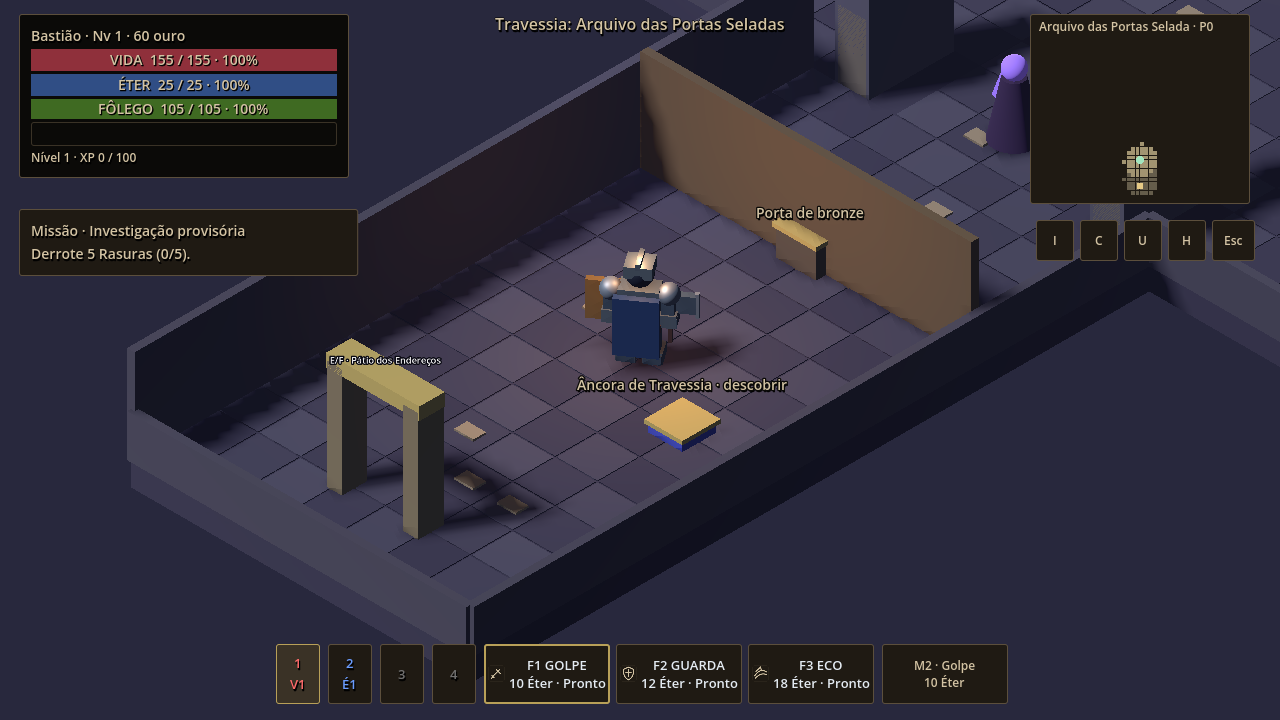
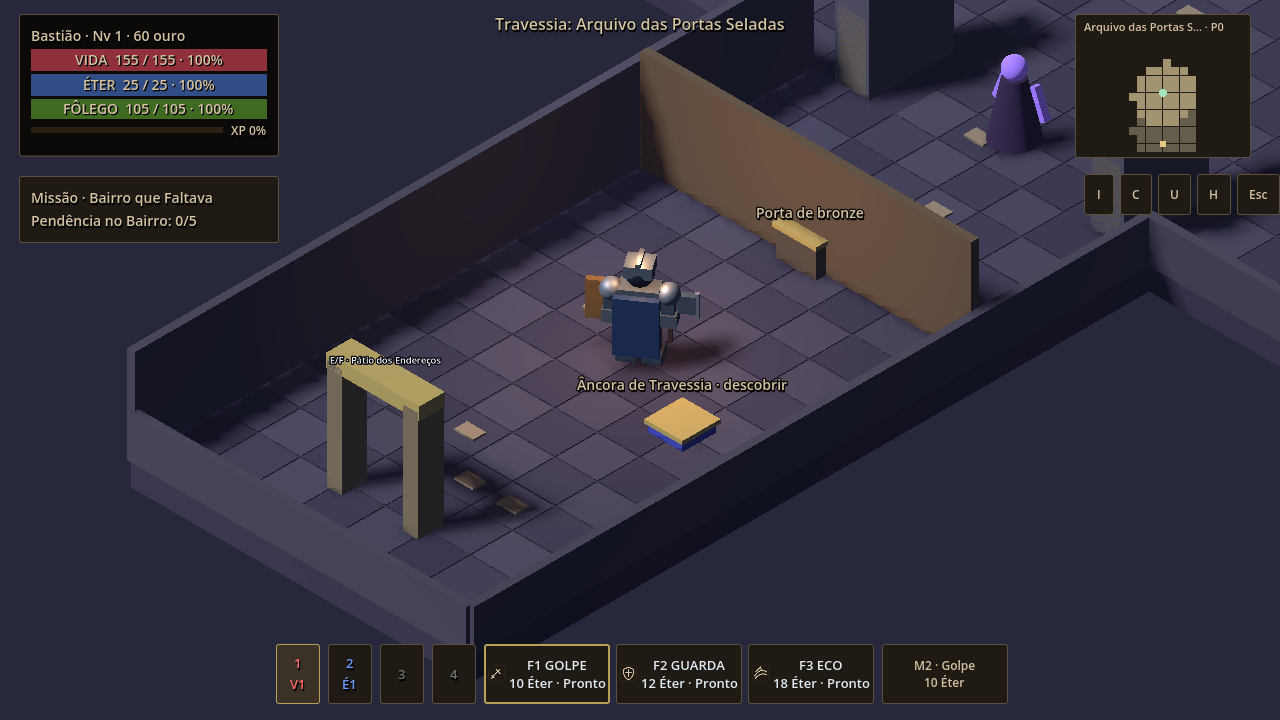
fix: refine compact HUD XP tracker minimap and stair readability

Changed region(s): [[0.0, 0.0, 0.2812, 0.3972], [0.7812, 0.0, 1.0, 0.3667]]

diff --git a/docs/FASE27_VALIDATION.md b/docs/FASE27_VALIDATION.md
@@ -1,0 +1,33 @@
+# Fase 27 — resultados e pendências
+
+21/10/2026. Base Fase26 / 431cdb6; Godot 4.7.2.stable.official.ed1daf0bf, Windows x64 Compatibility. PR Draft, sem merge.
+
+## Executado
+
+- Validador do grafo: zero erros; IDs/cenas, entradas, retornos e caminhos críticos conferidos.
+- 21 suítes completas aprovadas, incluindo inventário/arraste, NPCs/comércio, combate, HUD, persistência, consolidação e bot10/10. Resultados em relatorios-fase20/results.json e logs *-final.log no ZIP.
+- Fase27: 138 verificações finais, incluindo ataques/custos/dano na transição, retorno seguro, buffer dos encontros, rampa/altura/raycast, navegação/porta, fog por piso, posições inválidas, migração, recompensas e XP parcial. O número pode variar com pares de rótulos visíveis; todas as falhas são explícitas.
+- GUI headless:157 verificações; renderizador real:169 verificações, inputs nativos, circuito completo e12 capturas reais (quatro regiões nas duas resoluções, mapa expandido, retorno a Doma e XP parcial nas duas resoluções). Inspeção visual realizada. Fixtures neutralizam movimento/colisão de combate dos inimigos; preservam piso e gravidade. Combate é testado separadamente.
+- EXE Windows exportado:32 verificações aprovadas de menu, movimento, combate, comércio, save/loot/objetos, âncoras e conexões canônicas.
+- XP50% validada no preenchimento fino e em ganho real de progressão; painel de status/missão≈260px; minimapa compacto centrado no jogador; rastreador de pendência no Bairro não usa mortes do Arquivo para completar missão.
+
+## Perfil local final
+
+1920×1080, AMD Radeon RX5802048SP, OpenGL Compatibility, teto60FPS;90 frames por região, cenário e HUD finais, IA neutralizada. Intervalos observados incluem o desktop de teste, sem isolamento deGPU/CPU. Não é garantia de60FPS ou benchmark de campanha completa.
+
+| Região | Mediana ms/frame | p95 ms/frame | Draw calls |
+|---|---:|---:|---:|
+| map_01 | 35.51 | 42.89 | 267 |
+| map_02 | 35.77 | 43.27 | 229 |
+| map_03 | 35.90 | 42.23 | 207 |
+| map_04 | 36.01 | 40.43 | 222 |
+
+Reproduzir: Godot gráfico com `--path . --script res://tools/profile_regions.gd`, em perfil AETHEL_TEST_SAVE_DIR isolado. Dados completos em docs/evidence/fase27-performance.json.
+
+## Não homologado / pendências
+
+Playtest humano completo continua pendente. Não confundir automação gráfica ou inspeção de capturas com teste humano. Seguir TESTING.md para exploração livre, sensação do combate, pontos escuros, caminhos dinâmicos e acessibilidade. Revisão editorial no Godot e assets finais ainda dependem de produção futura.
+
+Mapas são estruturas greybox iniciais, sem o chefe do Arquivo, cutscenes, decisão canônica ou campanha completa. Perfil de desempenho ainda requer otimização e medições na máquina do jogador. Avisos ambientais de certificados/cache/editor e avisos de encerramento de ObjectDB em algumas suítes estão nos logs; nenhuma falha crítica de GDScript passou nas validações finais.
+
+A planilha fornecida não foi alterada nem marcada como concluída. As restrições são respeitadas pela implementação: mesmos donos de estado, combate e save; layout usa âncoras da viewport. Alterações funcionais da Fase27 (navegação, segurança e contador regional) estão separadas da reorganização visual na documentação.

diff --git a/docs/HUD_ENXUTA_FASE27.md b/docs/HUD_ENXUTA_FASE27.md
@@ -9,3 +9,12 @@ Nome/nível/ouro e XP usam os mesmos dados/sinais. Missão mostra somente um obj
 Mensagens de Travessia permanecem três segundos no topo central. Filtro de loot só aparece com drops da região atual. Rótulos por proximidade usam linha livre e não cobrem os retângulos da HUD; nomes de loot continuam com Alt. Removidos os textos soltos inferiores e título/dicas redundantes; controles extensos permanecem em H. Âncoras relativas à viewport e offsets de dimensões/margens lógicas mantêm layout no stretch canvas_items, com escala configurável85/100/110%.
 
 Validação automatizada usa cliques reais nos menus/poção, atalhos, comparação de retângulos e capturas de Vigília/Bairro/Pátio/Arquivo em1280×720 e1920×1080. Isso prova os caminhos testados, sem substituir playtest humano ou edição visual de novos assets. Planilha original e seu status permanecem intactos. Combate, stamina, payload de save e lógica de missão não foram alterados por essa revisão da HUD.
+
+
+## Ajustes após a revisão da captura
+
+Status e missão têm aproximadamente260px na viewport lógica1280×720. XP usa preenchimento de6px, com percentual ao lado e valores completos no tooltip; capturas adicionais mostram50/100(50%) em ambas as resoluções. O minimapa compacto mede176×144 e aproxima a área em torno do jogador; o ampliado mantém a visão regional conhecida.
+
+O rastreador mostra a pendência de Rasuras explicitamente no Bairro quando o jogador está no Pátio/Arquivo. Concluir esses encontros novos não incrementa mais o contador do Bairro; voltar a Vigília continua necessário para receber a recompensa. O título usa Maera/Bairro em vez de provisória, sem promover a missão de teste à missão canônica completa. Os detalhes de escopo permanecem no diário/documentação.
+
+A escadaria recebe luz de preenchimento local sem sombra, com contraste entre degraus. Prédios associam teto e corpo no mesmo componente de oclusão; material alpha compatível com OpenGL é aplicado aos dois quando encobrem jogador/torso de inimigo próximo. Colisões permanecem sólidas.

diff --git a/docs/TESTING.md b/docs/TESTING.md
@@ -28,4 +28,4 @@ python tools/package_windows.py
 
 O validador tools/validate_regions.gd confere grafo e chegadas;21 suítes usam perfis isolados via AETHEL_TEST_SAVE_DIR. Smoke do EXE:32 verificações de menu/gameplay/comércio/exploração/transições. A automação GUI usa inputs nativos e movimento real para o circuito, com inimigos neutralizados nessa fixture de inspeção. Bot e regressões exercitam combate separadamente. Capturas reais em docs/evidence/fase27-*.png; métricas locais em fase27-performance.json. Sem garantia de60FPS. Scripts não alteram o save pessoal durante testes.
 
-Arquitetura/limites: FASE27_WORLD.md, HUD_ENXUTA_FASE27.md. Sistemas anteriores: FASE24_NPCS.md e FASE25_EXPLORATION.md. Arte/sons/greybox iniciais, missão de Maera provisória, sem campanha definitiva. Automação e inspeção visual não são playtest humano: homologação humana completa continua pendente.
+Resultados e pendências: FASE27_VALIDATION.md. Arquitetura/limites: FASE27_WORLD.md, HUD_ENXUTA_FASE27.md. Sistemas anteriores: FASE24_NPCS.md e FASE25_EXPLORATION.md. Arte/sons/greybox iniciais, missão de Maera provisória, sem campanha definitiva. Automação e inspeção visual não são playtest humano: homologação humana completa continua pendente.
